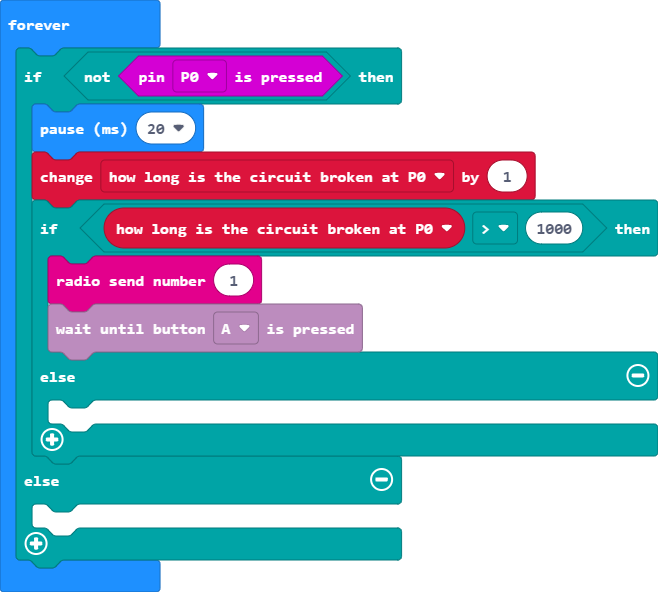
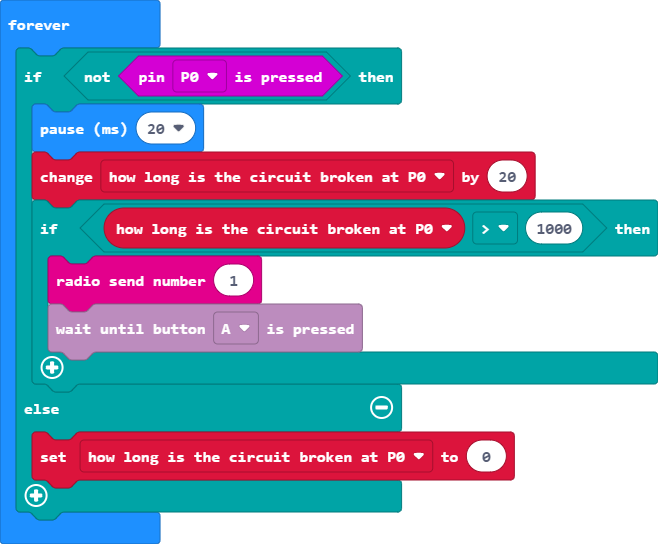
Update main.ts, main.blocks

diff --git a/main.ts b/main.ts
@@ -2,14 +2,12 @@ let how_long_is_the_circuit_broken_at_P0 = 0
 basic.forever(function () {
     if (!(input.pinIsPressed(TouchPin.P0))) {
         basic.pause(20)
-        how_long_is_the_circuit_broken_at_P0 += 1
+        how_long_is_the_circuit_broken_at_P0 += 20
         if (how_long_is_the_circuit_broken_at_P0 > 1000) {
             radio.sendNumber(1)
             WaitUntilBlocks.waitUntilButtonPressed(Button.A)
-        } else {
-        	
         }
     } else {
-    	
+        how_long_is_the_circuit_broken_at_P0 = 0
     }
 })
